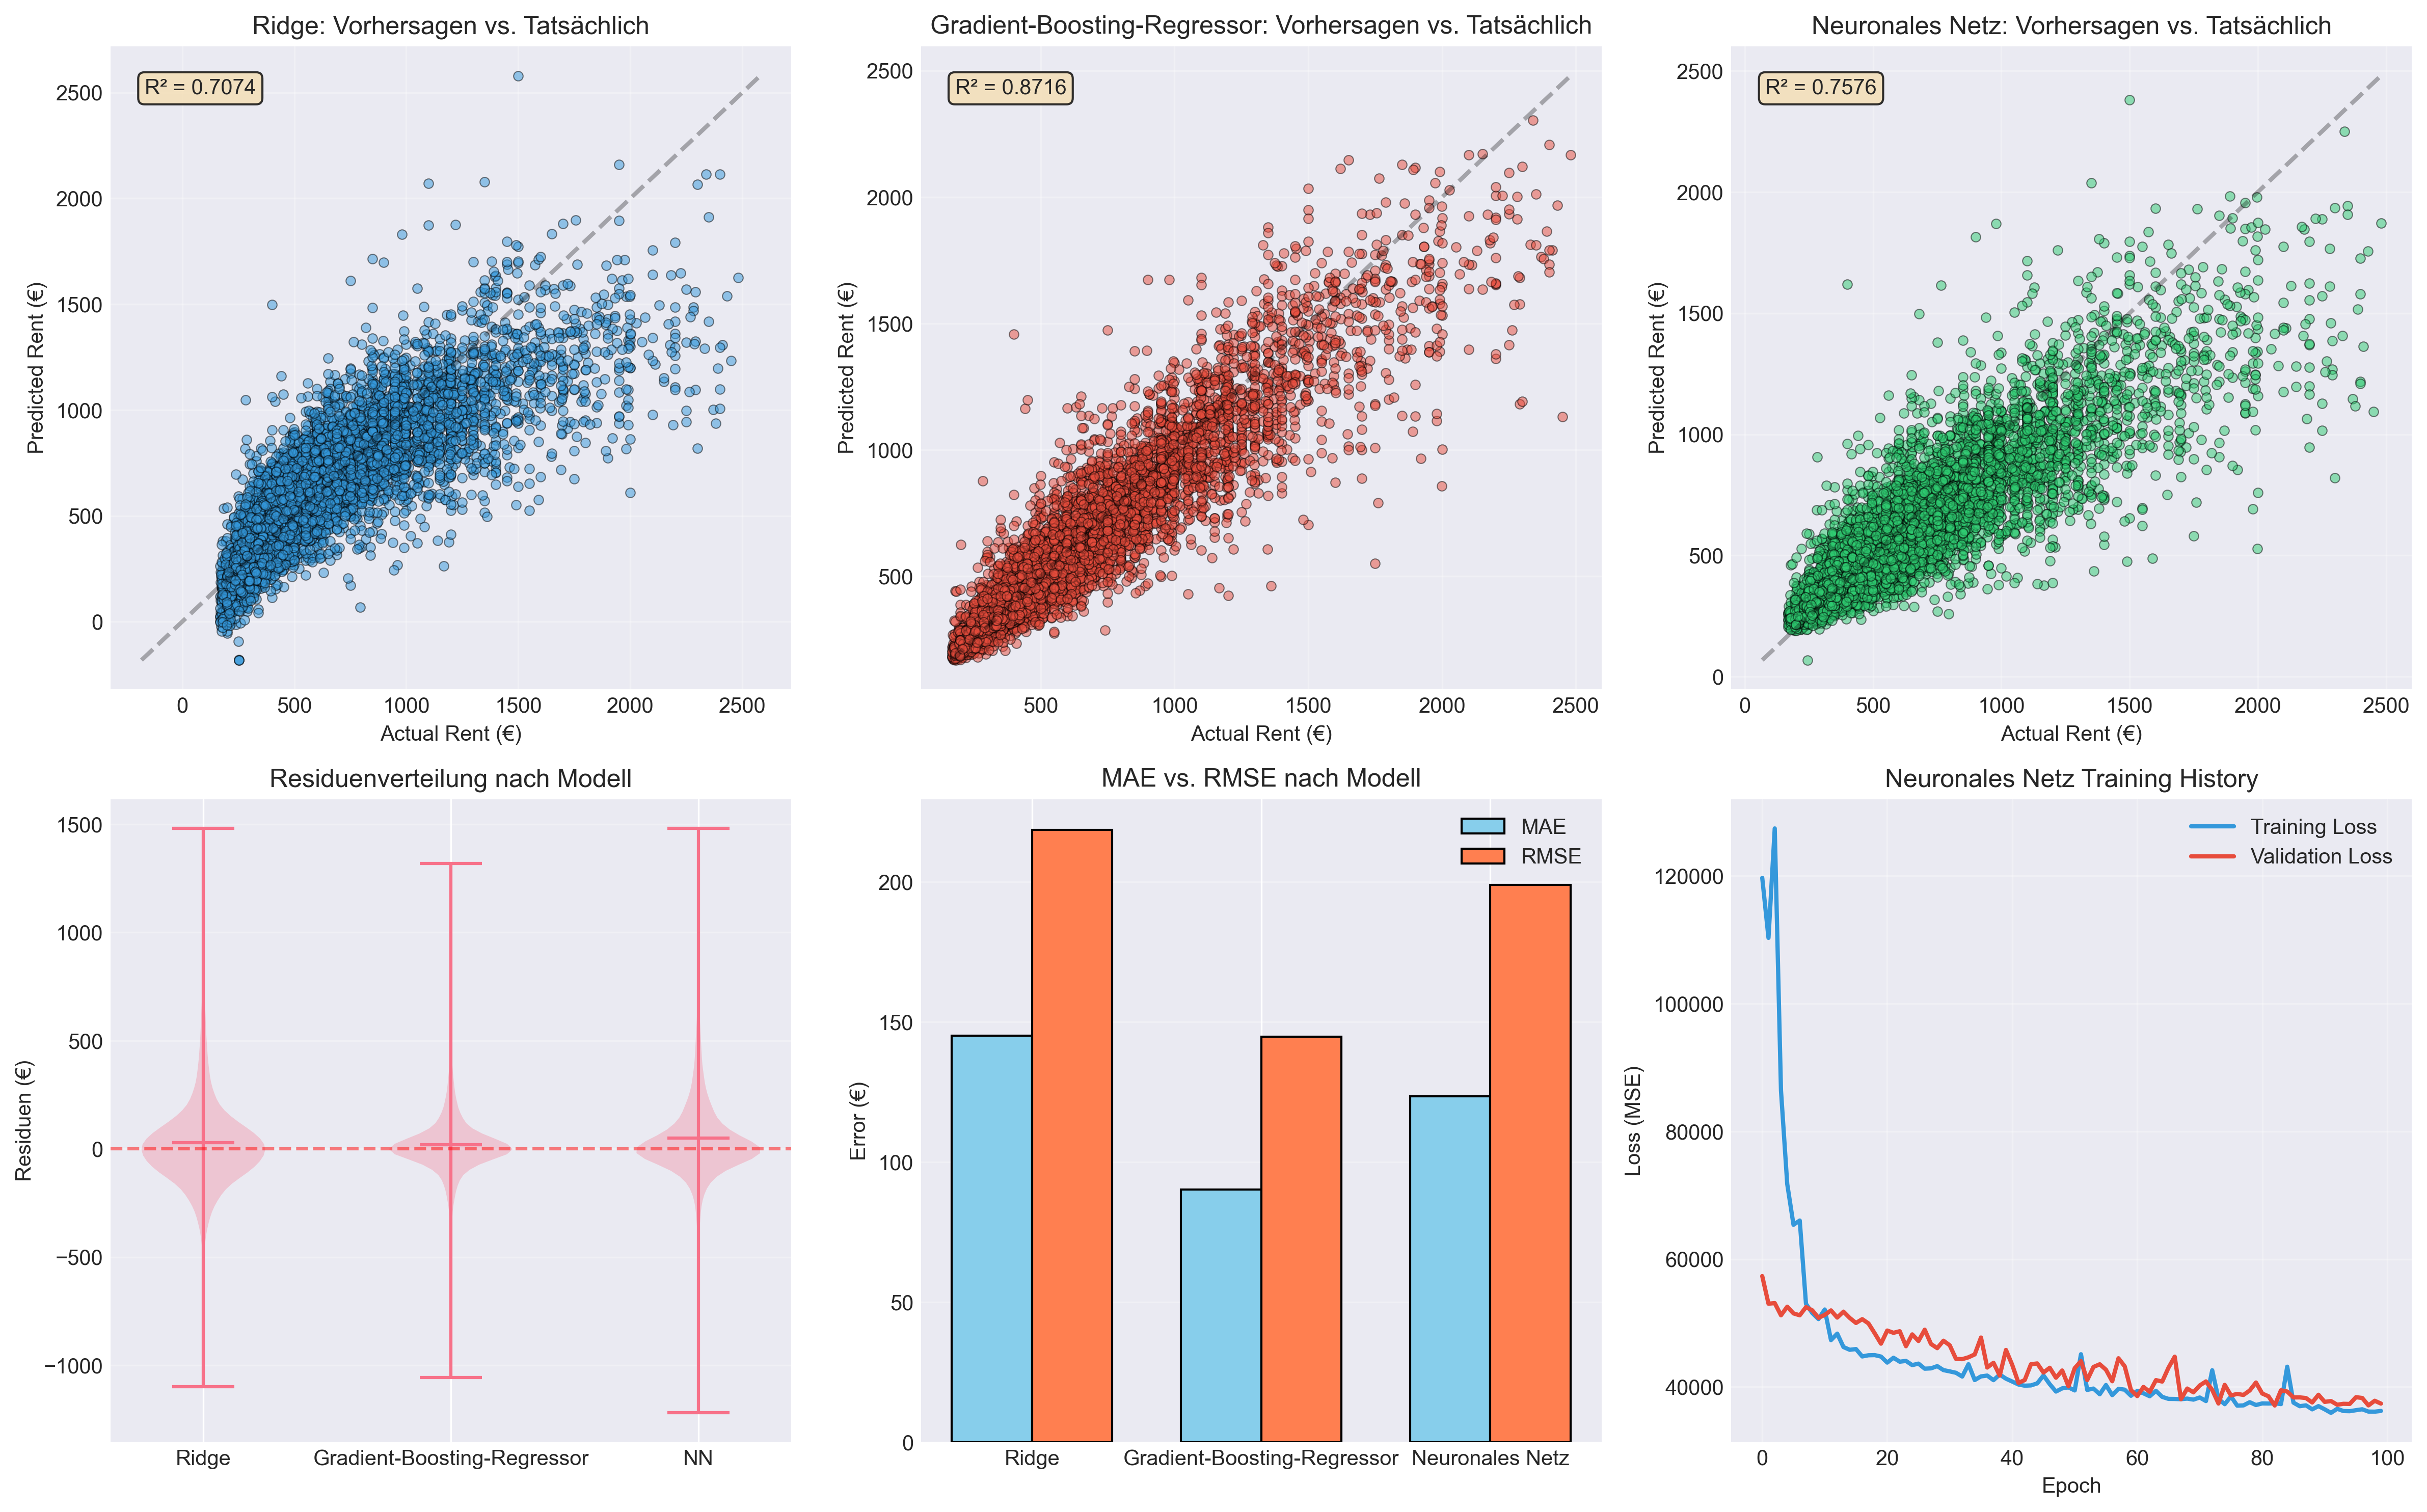
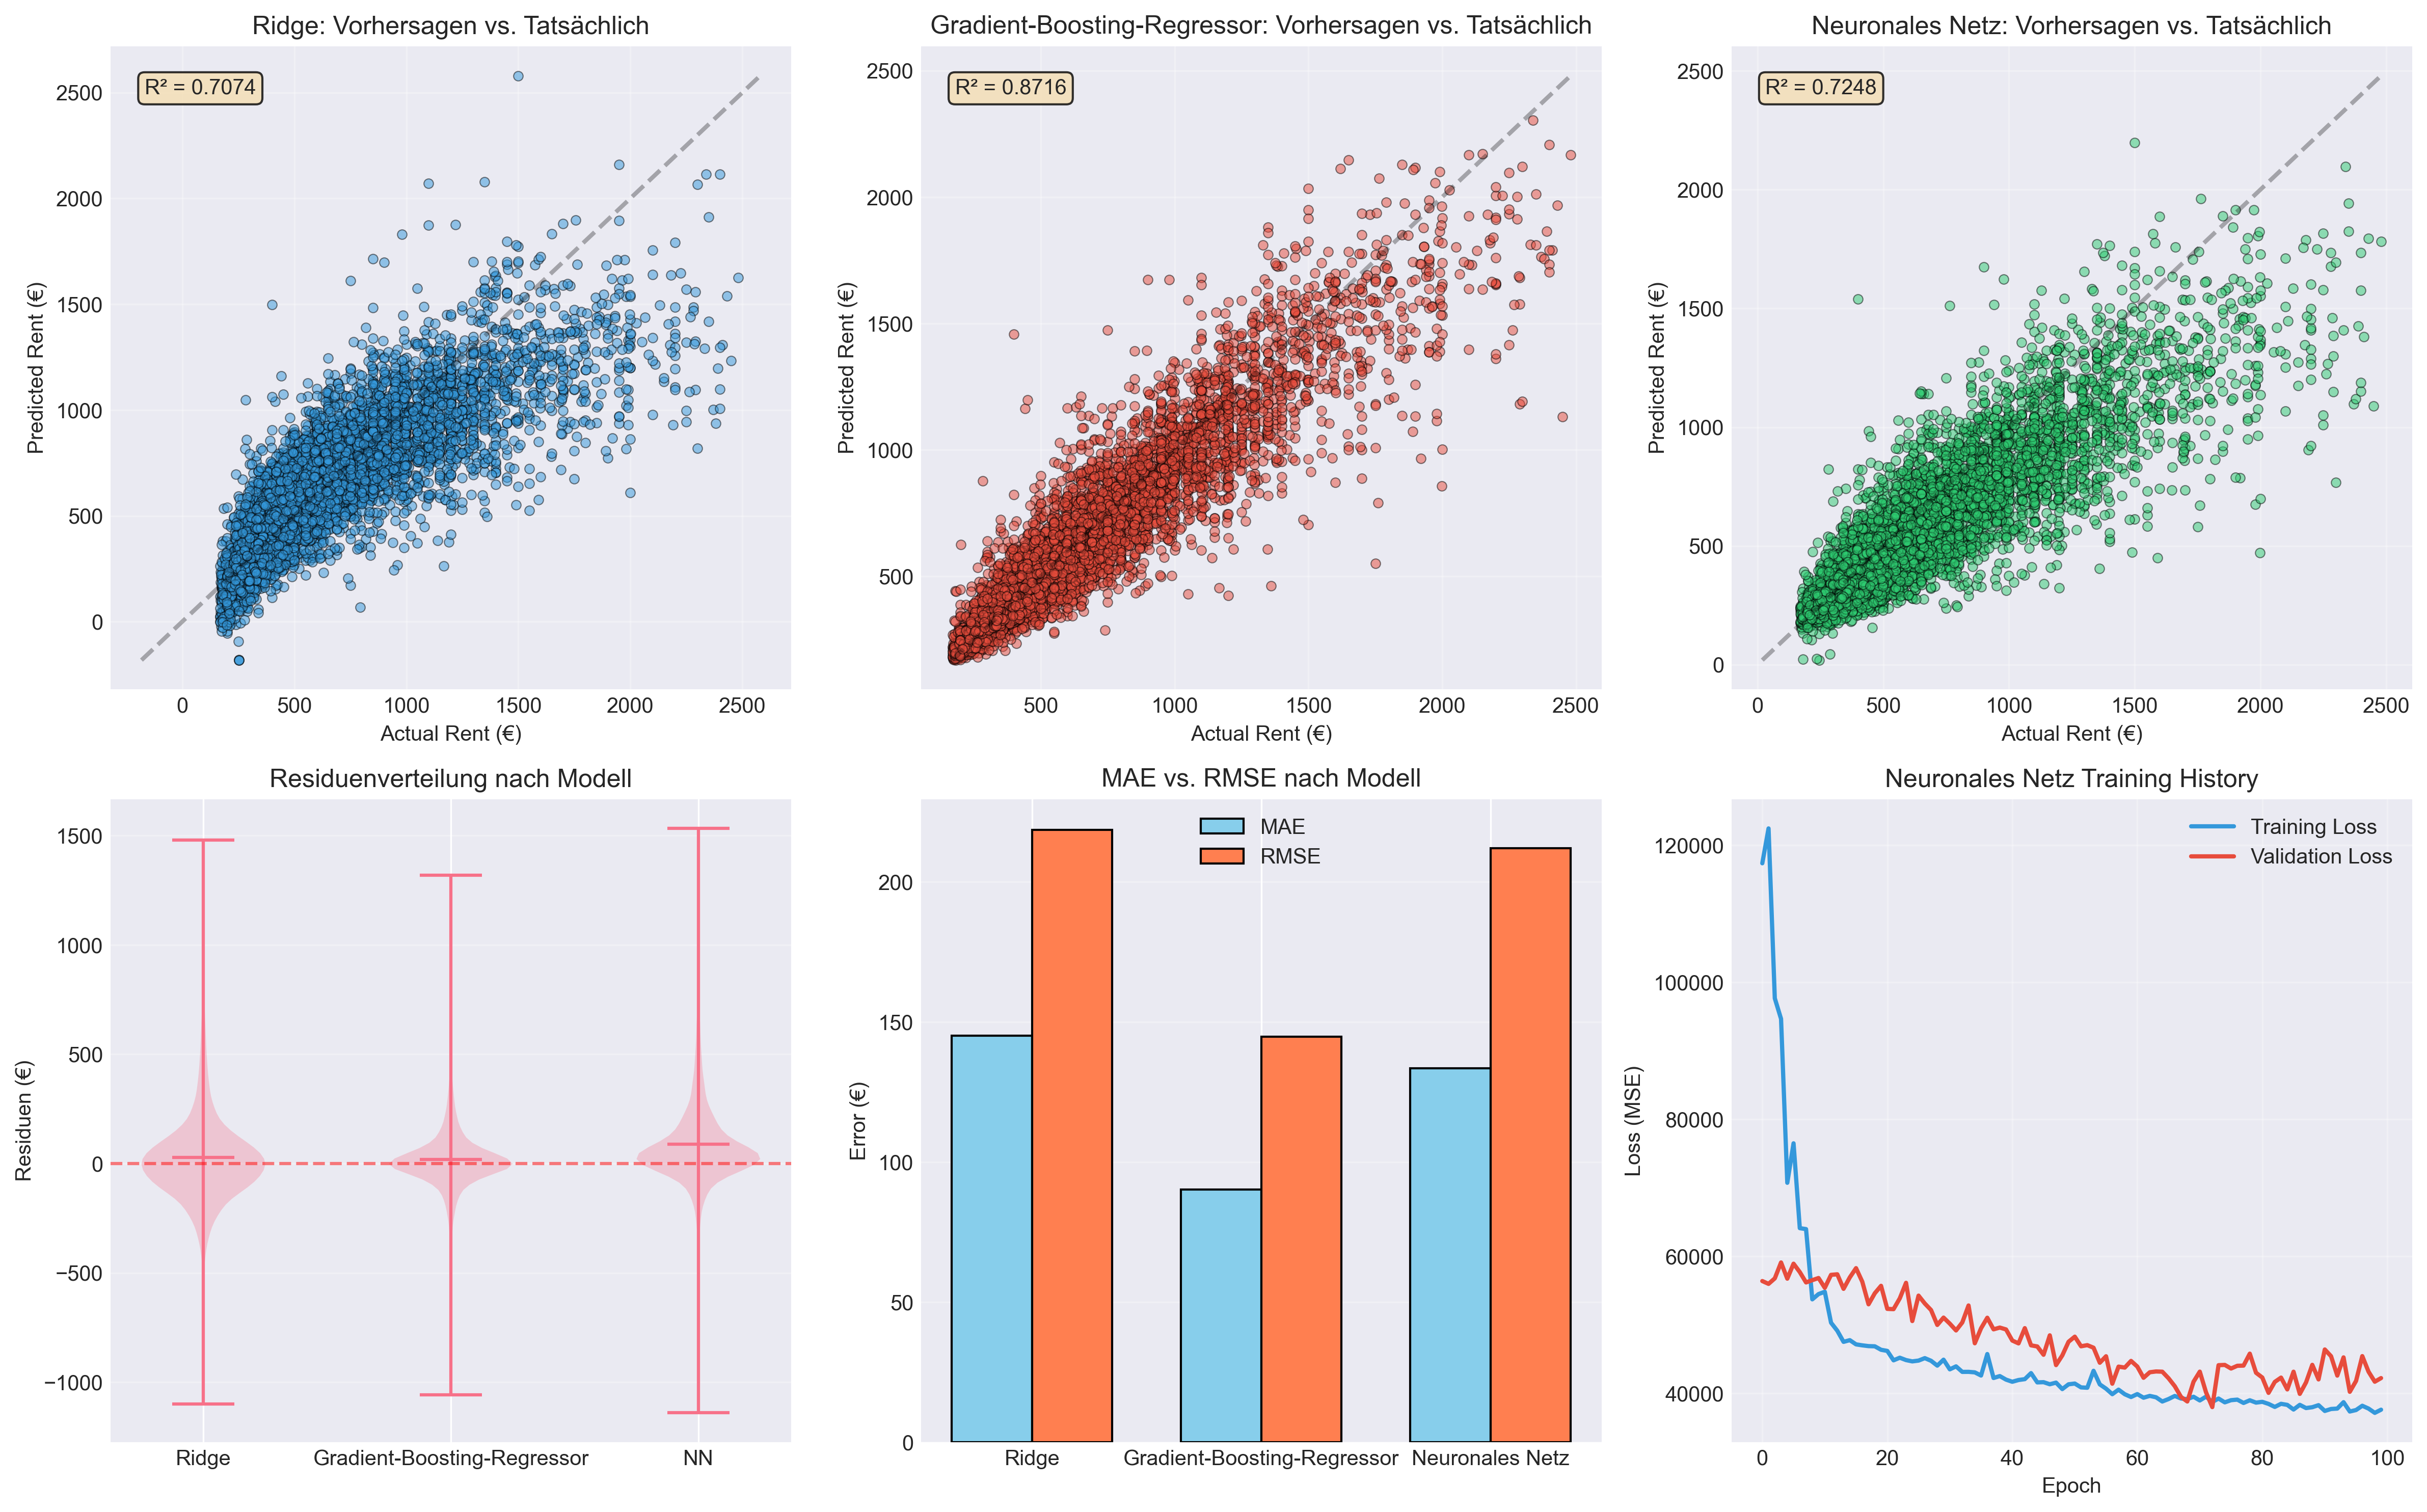
Berichte, Karten und Dokumentation aktualisiert

diff --git a/prediction_accuracy_map.html b/prediction_accuracy_map.html
@@ -138,14 +138,14 @@
         
         <div style="font-size: 12px;">
             <strong>So verwenden Sie die Karte:</strong><br>
-            • Circle size = error magnitude<br>
+            • Kreisgröße = Höhe des Vorhersagefehlers<br>
             • Klicken Sie auf Kreise für Details<br>
             • Hinein-/Herauszoomen zum Erkunden<br><br>
             
             <strong>Statistiken:</strong><br>
-            • Mean error: €24.81<br>
-            • Best accuracy: Green<br>
-            • Regions analyzed: 16
+            • Durchschnittlicher Fehler: €24.81<br>
+            • Höchste Genauigkeit: Grün markierte Regionen<br>
+            • Analysierte Regionen: 16
         </div>
     </div>
     
@@ -161,7 +161,7 @@
         }).addTo(map);
         
         // Add markers
-        const markers = [{"lat": 48.7758, "lon": 9.1829, "title": "Baden_W\u00fcrttemberg", "error": 19.319999999999936, "color": "#e67e22", "radius": 6.931999999999993, "actual": 928.05, "predicted": 908.73, "count": 503, "error_pct": 2.0817843866170938}, {"lat": 48.7758, "lon": 11.4328, "title": "Bayern", "error": 24.24000000000001, "color": "#e67e22", "radius": 7.424000000000001, "actual": 926.79, "predicted": 902.55, "count": 583, "error_pct": 2.615479234778106}, {"lat": 52.52, "lon": 13.405, "title": "Berlin", "error": 39.789999999999964, "color": "#e74c3c", "radius": 8.978999999999996, "actual": 1061.0, "predicted": 1021.21, "count": 244, "error_pct": 3.7502356267671977}, {"lat": 52.1189, "lon": 12.6084, "title": "Brandenburg", "error": 10.990000000000009, "color": "#f1c40f", "radius": 6.099000000000001, "actual": 525.76, "predicted": 514.77, "count": 173, "error_pct": 2.090307364576995}, {"lat": 53.1045, "lon": 8.8017, "title": "Bremen", "error": 2.509999999999991, "color": "#2ecc71", "radius": 5.2509999999999994, "actual": 547.63, "predicted": 545.12, "count": 69, "error_pct": 0.45833865931376855}, {"lat": 53.5511, "lon": 9.9937, "title": "Hamburg", "error": 106.79999999999995, "color": "#c0392b", "radius": 15, "actual": 1207.84, "predicted": 1101.04, "count": 89, "error_pct": 8.84223075904093}, {"lat": 50.1109, "lon": 8.6821, "title": "Hessen", "error": 22.480000000000018, "color": "#e67e22", "radius": 7.248000000000002, "actual": 923.34, "predicted": 900.86, "count": 469, "error_pct": 2.4346394610869253}, {"lat": 53.6154, "lon": 12.9289, "title": "Mecklenburg_Vorpommern", "error": 11.45999999999998, "color": "#f1c40f", "radius": 6.145999999999998, "actual": 455.09, "predicted": 443.63, "count": 180, "error_pct": 2.5181832165066207}, {"lat": 52.6362, "lon": 9.7753, "title": "Niedersachsen", "error": 19.360000000000014, "color": "#e67e22", "radius": 6.936000000000002, "actual": 616.96, "predicted": 597.6, "count": 451, "error_pct": 3.1379668049792553}, {"lat": 51.4556, "lon": 7.0116, "title": "Nordrhein_Westfalen", "error": 23.83000000000004, "color": "#e67e22", "radius": 7.3830000000000044, "actual": 597.87, "predicted": 574.04, "count": 1563, "error_pct": 3.9858163145834444}, {"lat": 49.9929, "lon": 6.9623, "title": "Rheinland_Pfalz", "error": 33.039999999999964, "color": "#e74c3c", "radius": 8.303999999999997, "actual": 676.13, "predicted": 643.09, "count": 200, "error_pct": 4.886634227145662}, {"lat": 49.2557, "lon": 6.9983, "title": "Saarland", "error": 31.129999999999995, "color": "#e74c3c", "radius": 8.113, "actual": 547.91, "predicted": 516.78, "count": 26, "error_pct": 5.681590042160209}, {"lat": 51.0834, "lon": 13.5325, "title": "Sachsen", "error": 9.740000000000009, "color": "#f1c40f", "radius": 5.974000000000001, "actual": 432.55, "predicted": 422.81, "count": 1695, "error_pct": 2.2517628019882117}, {"lat": 51.6921, "lon": 11.8797, "title": "Sachsen_Anhalt", "error": 11.689999999999998, "color": "#f1c40f", "radius": 6.169, "actual": 375.98, "predicted": 364.29, "count": 600, "error_pct": 3.1092079365923713}, {"lat": 54.5973, "lon": 9.8773, "title": "Schleswig_Holstein", "error": 28.839999999999918, "color": "#e67e22", "radius": 7.8839999999999915, "actual": 623.16, "predicted": 594.32, "count": 158, "error_pct": 4.6280249053212525}];
+        const markers = [{"lat": 48.7758, "lon": 9.1829, "title": "Baden_W\u00fcrttemberg", "error": 19.319999999999936, "color": "#e67e22", "radius": 6.931999999999993, "actual": 928.05, "predicted": 908.73, "count": 503, "error_pct": 2.0817843866170938}, {"lat": 48.7758, "lon": 11.4328, "title": "Bayern", "error": 24.24000000000001, "color": "#e67e22", "radius": 7.424000000000001, "actual": 926.79, "predicted": 902.55, "count": 583, "error_pct": 2.615479234778106}, {"lat": 52.52, "lon": 13.405, "title": "Berlin", "error": 39.789999999999964, "color": "#e74c3c", "radius": 8.978999999999996, "actual": 1061.0, "predicted": 1021.21, "count": 244, "error_pct": 3.7502356267671977}, {"lat": 52.1189, "lon": 12.6084, "title": "Brandenburg", "error": 10.990000000000009, "color": "#f1c40f", "radius": 6.099000000000001, "actual": 525.76, "predicted": 514.77, "count": 173, "error_pct": 2.090307364576995}, {"lat": 53.1045, "lon": 8.8017, "title": "Bremen", "error": 2.509999999999991, "color": "#2ecc71", "radius": 5.2509999999999994, "actual": 547.63, "predicted": 545.12, "count": 69, "error_pct": 0.45833865931376855}, {"lat": 53.5511, "lon": 9.9937, "title": "Hamburg", "error": 106.79999999999995, "color": "#c0392b", "radius": 15, "actual": 1207.84, "predicted": 1101.04, "count": 89, "error_pct": 8.84223075904093}, {"lat": 50.1109, "lon": 8.6821, "title": "Hessen", "error": 22.480000000000018, "color": "#e67e22", "radius": 7.248000000000002, "actual": 923.34, "predicted": 900.86, "count": 469, "error_pct": 2.4346394610869253}, {"lat": 53.6154, "lon": 12.9289, "title": "Mecklenburg_Vorpommern", "error": 11.45999999999998, "color": "#f1c40f", "radius": 6.145999999999998, "actual": 455.09, "predicted": 443.63, "count": 180, "error_pct": 2.5181832165066207}, {"lat": 52.6362, "lon": 9.7753, "title": "Niedersachsen", "error": 19.360000000000014, "color": "#e67e22", "radius": 6.936000000000002, "actual": 616.96, "predicted": 597.6, "count": 451, "error_pct": 3.1379668049792553}, {"lat": 51.4556, "lon": 7.0116, "title": "Nordrhein_Westfalen", "error": 23.83000000000004, "color": "#e67e22", "radius": 7.3830000000000044, "actual": 597.87, "predicted": 574.04, "count": 1563, "error_pct": 3.9858163145834444}, {"lat": 49.9929, "lon": 6.9623, "title": "Rheinland_Pfalz", "error": 33.039999999999964, "color": "#e74c3c", "radius": 8.303999999999997, "actual": 676.13, "predicted": 643.09, "count": 200, "error_pct": 4.886634227145662}, {"lat": 49.2557, "lon": 6.9983, "title": "Saarland", "error": 31.129999999999995, "color": "#e74c3c", "radius": 8.113, "actual": 547.91, "predicted": 516.78, "count": 26, "error_pct": 5.681590042160209}, {"lat": 51.0834, "lon": 13.5325, "title": "Sachsen", "error": 9.740000000000009, "color": "#f1c40f", "radius": 5.974000000000001, "actual": 432.55, "predicted": 422.81, "count": 1695, "error_pct": 2.2517628019882117}, {"lat": 51.6921, "lon": 11.8797, "title": "Sachsen_Anhalt", "error": 11.689999999999998, "color": "#f1c40f", "radius": 6.169, "actual": 375.98, "predicted": 364.29, "count": 600, "error_pct": 3.1092079365923713}, {"lat": 54.5973, "lon": 9.8773, "title": "Schleswig_Holstein", "error": 28.839999999999918, "color": "#e67e22", "radius": 7.8839999999999915, "actual": 623.16, "predicted": 594.32, "count": 158, "error_pct": 4.6280249053212525}, {"lat": 50.984, "lon": 11.029, "title": "Th\u00fcringen", "error": 1.7300000000000182, "color": "#2ecc71", "radius": 5.173000000000002, "actual": 380.53, "predicted": 382.26, "count": 265, "error_pct": 0.45462906998134667}];
         
         markers.forEach(function(marker) {
             const circle = L.circleMarker([marker.lat, marker.lon], {
@@ -179,11 +179,11 @@
                 <div class="popup-title">${marker.title}</div>
                 <div class="popup-content">
                     <div class="popup-row">
-                        <span class="popup-label">Actual Avg:</span>
+                        <span class="popup-label">Tatsächlicher Durchschnitt:</span>
                         <span>€${marker.actual.toFixed(2)}</span>
                     </div>
                     <div class="popup-row">
-                        <span class="popup-label">Predicted:</span>
+                        <span class="popup-label">Vorhergesagter Durchschnitt:</span>
                         <span>€${marker.predicted.toFixed(2)}</span>
                     </div>
                     <div class="popup-row">

diff --git a/interactive_rental_map.html b/interactive_rental_map.html
@@ -95,9 +95,9 @@
     <div id="map"></div>
     
     <div class="info-box">
-        <h3>🗺️ Mietpreiskarte</h3>
+        <h3> Regionale Mietpreisübersicht</h3>
         <p style="margin-bottom: 10px; color: #666;">
-            Durchschnittliche Mietpreise nach deutscher Region. Klicken Sie auf die Kreise für Details.
+         Diese Karte zeigt die durchschnittlichen Nettokaltmieten der analysierten Regionen in Deutschland. Klicken Sie auf einen Kreis, um weitere Informationen zur jeweiligen Region anzuzeigen.
         </p>
         
         <div class="color-legend">
@@ -120,7 +120,7 @@
             </div>
             <div class="legend-item">
                 <div class="legend-color" style="background: #c0392b;"></div>
-                <span>Very Teuer (€1050+)</span>
+                <span>Sehr hochpreisig (ab €1050)</span>
             </div>
         </div>
         
@@ -133,7 +133,7 @@
             • Hinein-/Herauszoomen zum Erkunden<br><br>
             
             <strong>Statistiken:</strong><br>
-            • Durchschnittliche Miete: €677/month<br>
+            • Durchschnittliche Nettokaltmiete: €677
             • Spanne: €376 - €1208<br>
             • Regionen: 16
         </div>
@@ -151,7 +151,7 @@
         }).addTo(map);
         
         // Add markers
-        const markers = [{"lat": 48.7758, "lon": 9.1829, "title": "Baden_W\u00fcrttemberg", "rent": 928.05, "color": "#e74c3c", "radius": 15.963888154256725, "count": 503, "std": 437.02, "min": 200.0, "max": 2450.0, "living_space": 79.8, "rooms": 2.77}, {"lat": 48.7758, "lon": 11.4328, "title": "Bayern", "rent": 926.79, "color": "#e74c3c", "radius": 15.945712018849326, "count": 583, "std": 454.6, "min": 200.0, "max": 2480.0, "living_space": 75.79, "rooms": 2.53}, {"lat": 52.52, "lon": 13.405, "title": "Berlin", "rent": 1061.0, "color": "#c0392b", "radius": 17.88175894982329, "count": 244, "std": 539.11, "min": 179.99, "max": 2338.6, "living_space": 74.99, "rooms": 2.41}, {"lat": 52.1189, "lon": 12.6084, "title": "Brandenburg", "rent": 525.76, "color": "#2ecc71", "radius": 10.16065203279398, "count": 173, "std": 321.37, "min": 180.0, "max": 1860.96, "living_space": 69.19, "rooms": 2.56}, {"lat": 53.1045, "lon": 8.8017, "title": "Bremen", "rent": 547.63, "color": "#f1c40f", "radius": 10.476137811650998, "count": 69, "std": 246.6, "min": 218.0, "max": 1190.0, "living_space": 68.74, "rooms": 2.68}, {"lat": 53.5511, "lon": 9.9937, "title": "Hamburg", "rent": 1207.84, "color": "#c0392b", "radius": 20.0, "count": 89, "std": 449.1, "min": 356.75, "max": 2390.0, "living_space": 82.62, "rooms": 2.7}, {"lat": 50.1109, "lon": 8.6821, "title": "Hessen", "rent": 923.34, "color": "#e74c3c", "radius": 15.89594402904335, "count": 469, "std": 438.53, "min": 184.14, "max": 2430.0, "living_space": 77.95, "rooms": 2.63}, {"lat": 53.6154, "lon": 12.9289, "title": "Mecklenburg_Vorpommern", "rent": 455.09, "color": "#2ecc71", "radius": 9.14120164450749, "count": 180, "std": 334.7, "min": 175.0, "max": 1980.0, "living_space": 65.03, "rooms": 2.57}, {"lat": 52.6362, "lon": 9.7753, "title": "Niedersachsen", "rent": 616.96, "color": "#f1c40f", "radius": 11.476258024186762, "count": 451, "std": 332.23, "min": 174.0, "max": 2400.0, "living_space": 77.49, "rooms": 2.71}, {"lat": 51.4556, "lon": 7.0116, "title": "Nordrhein_Westfalen", "rent": 597.87, "color": "#f1c40f", "radius": 11.200875147260357, "count": 1563, "std": 330.96, "min": 176.0, "max": 2290.0, "living_space": 73.79, "rooms": 2.67}, {"lat": 49.9929, "lon": 6.9623, "title": "Rheinland_Pfalz", "rent": 676.13, "color": "#f1c40f", "radius": 12.329815113119995, "count": 200, "std": 355.7, "min": 179.0, "max": 2285.0, "living_space": 78.82, "rooms": 2.6}, {"lat": 49.2557, "lon": 6.9983, "title": "Saarland", "rent": 547.91, "color": "#f1c40f", "radius": 10.480176952852643, "count": 26, "std": 226.37, "min": 240.0, "max": 1348.0, "living_space": 77.25, "rooms": 2.71}, {"lat": 51.0834, "lon": 13.5325, "title": "Sachsen", "rent": 432.55, "color": "#2ecc71", "radius": 8.816050777775107, "count": 1695, "std": 265.27, "min": 170.0, "max": 1920.36, "living_space": 65.79, "rooms": 2.49}, {"lat": 51.6921, "lon": 11.8797, "title": "Sachsen_Anhalt", "rent": 375.98, "color": "#2ecc71", "radius": 8.0, "count": 600, "std": 185.32, "min": 170.0, "max": 1657.5, "living_space": 64.04, "rooms": 2.59}, {"lat": 54.5973, "lon": 9.8773, "title": "Schleswig_Holstein", "rent": 623.16, "color": "#f1c40f", "radius": 11.565696150794604, "count": 158, "std": 265.0, "min": 250.0, "max": 1550.0, "living_space": 70.79, "rooms": 2.57}];
+        const markers = [{"lat": 48.7758, "lon": 9.1829, "title": "Baden_W\u00fcrttemberg", "rent": 928.05, "color": "#e74c3c", "radius": 15.963888154256725, "count": 503, "std": 437.02, "min": 200.0, "max": 2450.0, "living_space": 79.8, "rooms": 2.77}, {"lat": 48.7758, "lon": 11.4328, "title": "Bayern", "rent": 926.79, "color": "#e74c3c", "radius": 15.945712018849326, "count": 583, "std": 454.6, "min": 200.0, "max": 2480.0, "living_space": 75.79, "rooms": 2.53}, {"lat": 52.52, "lon": 13.405, "title": "Berlin", "rent": 1061.0, "color": "#c0392b", "radius": 17.88175894982329, "count": 244, "std": 539.11, "min": 179.99, "max": 2338.6, "living_space": 74.99, "rooms": 2.41}, {"lat": 52.1189, "lon": 12.6084, "title": "Brandenburg", "rent": 525.76, "color": "#2ecc71", "radius": 10.16065203279398, "count": 173, "std": 321.37, "min": 180.0, "max": 1860.96, "living_space": 69.19, "rooms": 2.56}, {"lat": 53.1045, "lon": 8.8017, "title": "Bremen", "rent": 547.63, "color": "#f1c40f", "radius": 10.476137811650998, "count": 69, "std": 246.6, "min": 218.0, "max": 1190.0, "living_space": 68.74, "rooms": 2.68}, {"lat": 53.5511, "lon": 9.9937, "title": "Hamburg", "rent": 1207.84, "color": "#c0392b", "radius": 20.0, "count": 89, "std": 449.1, "min": 356.75, "max": 2390.0, "living_space": 82.62, "rooms": 2.7}, {"lat": 50.1109, "lon": 8.6821, "title": "Hessen", "rent": 923.34, "color": "#e74c3c", "radius": 15.89594402904335, "count": 469, "std": 438.53, "min": 184.14, "max": 2430.0, "living_space": 77.95, "rooms": 2.63}, {"lat": 53.6154, "lon": 12.9289, "title": "Mecklenburg_Vorpommern", "rent": 455.09, "color": "#2ecc71", "radius": 9.14120164450749, "count": 180, "std": 334.7, "min": 175.0, "max": 1980.0, "living_space": 65.03, "rooms": 2.57}, {"lat": 52.6362, "lon": 9.7753, "title": "Niedersachsen", "rent": 616.96, "color": "#f1c40f", "radius": 11.476258024186762, "count": 451, "std": 332.23, "min": 174.0, "max": 2400.0, "living_space": 77.49, "rooms": 2.71}, {"lat": 51.4556, "lon": 7.0116, "title": "Nordrhein_Westfalen", "rent": 597.87, "color": "#f1c40f", "radius": 11.200875147260357, "count": 1563, "std": 330.96, "min": 176.0, "max": 2290.0, "living_space": 73.79, "rooms": 2.67}, {"lat": 49.9929, "lon": 6.9623, "title": "Rheinland_Pfalz", "rent": 676.13, "color": "#f1c40f", "radius": 12.329815113119995, "count": 200, "std": 355.7, "min": 179.0, "max": 2285.0, "living_space": 78.82, "rooms": 2.6}, {"lat": 49.2557, "lon": 6.9983, "title": "Saarland", "rent": 547.91, "color": "#f1c40f", "radius": 10.480176952852643, "count": 26, "std": 226.37, "min": 240.0, "max": 1348.0, "living_space": 77.25, "rooms": 2.71}, {"lat": 51.0834, "lon": 13.5325, "title": "Sachsen", "rent": 432.55, "color": "#2ecc71", "radius": 8.816050777775107, "count": 1695, "std": 265.27, "min": 170.0, "max": 1920.36, "living_space": 65.79, "rooms": 2.49}, {"lat": 51.6921, "lon": 11.8797, "title": "Sachsen_Anhalt", "rent": 375.98, "color": "#2ecc71", "radius": 8.0, "count": 600, "std": 185.32, "min": 170.0, "max": 1657.5, "living_space": 64.04, "rooms": 2.59}, {"lat": 54.5973, "lon": 9.8773, "title": "Schleswig_Holstein", "rent": 623.16, "color": "#f1c40f", "radius": 11.565696150794604, "count": 158, "std": 265.0, "min": 250.0, "max": 1550.0, "living_space": 70.79, "rooms": 2.57}, {"lat": 50.984, "lon": 11.029, "title": "Th\u00fcringen", "rent": 380.53, "color": "#2ecc71", "radius": 8.065636044526723, "count": 265, "std": 192.98, "min": 170.0, "max": 1665.0, "living_space": 64.55, "rooms": 2.48}];
         
         markers.forEach(function(marker) {
             const circle = L.circleMarker([marker.lat, marker.lon], {
@@ -168,7 +168,7 @@
                 <div class="popup-title">${marker.title}</div>
                 <div class="popup-content">
                     <div class="popup-row">
-                        <span class="popup-label">Durchschnittliche Miete:</span>
+                        <span class="popup-label">Durchschnittliche Nettokaltmiete::</span>
                         <span>€${marker.rent.toFixed(2)}/month</span>
                     </div>
                     <div class="popup-row">

diff --git a/generate_maps.py b/generate_maps.py
@@ -3,8 +3,6 @@ Vereinfachte interaktive Kartenerstellung
 Erstellt eigenständiges HTML mit Markern und Heatmaps
 """
 
-import pandas as pd
-import numpy as np
 import pickle
 import json
 
@@ -13,9 +11,6 @@ print("INTERAKTIVE KARTEN ERSTELLEN ")
 print("="*80)
 
 # Ergebnisse laden
-with open('pipeline_results.pkl', 'rb') as f:
-    results = pickle.load(f)
-
 with open('evaluation_results.pkl', 'rb') as f:
     eval_results = pickle.load(f)
 
@@ -37,7 +32,8 @@ region_coords = {
     'Saarland': [49.2557, 6.9983],
     'Sachsen': [51.0834, 13.5325],
     'Sachsen_Anhalt': [51.6921, 11.8797],
-    'Schleswig_Holstein': [54.5973, 9.8773]
+    'Schleswig_Holstein': [54.5973, 9.8773],
+    'Thüringen': [50.9840, 11.0290]
 }
 
 # Aggregate data by region
@@ -227,9 +223,9 @@ html_content = '''<!DOCTYPE html>
     <div id="map"></div>
     
     <div class="info-box">
-        <h3>🗺️ Mietpreiskarte</h3>
+        <h3> Regionale Mietpreisübersicht</h3>
         <p style="margin-bottom: 10px; color: #666;">
-            Durchschnittliche Mietpreise nach deutscher Region. Klicken Sie auf die Kreise für Details.
+         Diese Karte zeigt die durchschnittlichen Nettokaltmieten der analysierten Regionen in Deutschland. Klicken Sie auf einen Kreis, um weitere Informationen zur jeweiligen Region anzuzeigen.
         </p>
         
         <div class="color-legend">
@@ -252,7 +248,7 @@ html_content = '''<!DOCTYPE html>
             </div>
             <div class="legend-item">
                 <div class="legend-color" style="background: #c0392b;"></div>
-                <span>Very Teuer (€1050+)</span>
+                <span>Sehr hochpreisig (ab €1050)</span>
             </div>
         </div>
         
@@ -265,7 +261,7 @@ html_content = '''<!DOCTYPE html>
             • Hinein-/Herauszoomen zum Erkunden<br><br>
             
             <strong>Statistiken:</strong><br>
-            • Durchschnittliche Miete: €{{AVG_RENT}}/month<br>
+            • Durchschnittliche Nettokaltmiete: €{{AVG_RENT}}
             • Spanne: €{{MIN_RENT}} - €{{MAX_RENT}}<br>
             • Regionen: {{NUM_REGIONS}}
         </div>
@@ -300,7 +296,7 @@ html_content = '''<!DOCTYPE html>
                 <div class="popup-title">${marker.title}</div>
                 <div class="popup-content">
                     <div class="popup-row">
-                        <span class="popup-label">Durchschnittliche Miete:</span>
+                        <span class="popup-label">Durchschnittliche Nettokaltmiete::</span>
                         <span>€${marker.rent.toFixed(2)}/month</span>
                     </div>
                     <div class="popup-row">
@@ -531,14 +527,14 @@ accuracy_html = '''<!DOCTYPE html>
         
         <div style="font-size: 12px;">
             <strong>So verwenden Sie die Karte:</strong><br>
-            • Circle size = error magnitude<br>
+            • Kreisgröße = Höhe des Vorhersagefehlers<br>
             • Klicken Sie auf Kreise für Details<br>
             • Hinein-/Herauszoomen zum Erkunden<br><br>
             
             <strong>Statistiken:</strong><br>
-            • Mean error: €{{MEAN_ERROR}}<br>
-            • Best accuracy: Green<br>
-            • Regions analyzed: {{NUM_REGIONS_ACC}}
+            • Durchschnittlicher Fehler: €{{MEAN_ERROR}}<br>
+            • Höchste Genauigkeit: Grün markierte Regionen<br>
+            • Analysierte Regionen: {{NUM_REGIONS_ACC}}
         </div>
     </div>
     
@@ -572,11 +568,11 @@ accuracy_html = '''<!DOCTYPE html>
                 <div class="popup-title">${marker.title}</div>
                 <div class="popup-content">
                     <div class="popup-row">
-                        <span class="popup-label">Actual Avg:</span>
+                        <span class="popup-label">Tatsächlicher Durchschnitt:</span>
                         <span>€${marker.actual.toFixed(2)}</span>
                     </div>
                     <div class="popup-row">
-                        <span class="popup-label">Predicted:</span>
+                        <span class="popup-label">Vorhergesagter Durchschnitt:</span>
                         <span>€${marker.predicted.toFixed(2)}</span>
                     </div>
                     <div class="popup-row">

diff --git a/generate_report.py b/generate_report.py
@@ -29,7 +29,6 @@ y_test = results['y_test']
 y_train = results['y_train']
 y_val = results['y_val']
 test_df = results['test_df']
-gb_model = results['gb_model']
 
 ridge_metrics = eval_results['ridge_metrics']
 xgb_metrics = eval_results['xgb_metrics']
@@ -70,7 +69,7 @@ WESENTLICHE ERKENNTNISSE:
 • Test-RMSE: €{best_test_rmse:.2f} (gewichtet größere Fehler stärker)
 • Test-R²: {best_test_r2:.4f} (erklärt {best_test_r2*100:.2f}% der Varianz)
 • Vorhersageintervalle: 90%-Konfidenzniveau mit {xgb_intervals['coverage']:.1%} tatsächlicher Abdeckung
-• Wichtigste Merkmale: livingSpace, yearConstructed, noRooms, floor, geo_plz
+• Wichtigste Merkmale: livingSpace, serviceCharge, pricetrend, regio1, geo_plz
 
 Das Modell zeigt eine hohe Vorhersagegenauigkeit mit sehr guter räumlicher und zeitlicher Abdeckung.
 Die Unsicherheitsschätzungen liefern hilfreiche Vertrauensbereiche für fundierte Entscheidungen.
@@ -103,7 +102,7 @@ Statistiken der Zielvariable (Trainingsdaten):
 • Median: €{y_train.median():.2f}
 
 Räumliche Abdeckung:
-• Number of Federal States: 15
+• Number of Federal States: 16
 • Number of Unique Regions: {test_df['regio1'].nunique()}
 • Number of Postal Codes: {test_df['geo_plz'].nunique() if 'geo_plz' in test_df.columns else 'N/A'}
 
@@ -533,7 +532,7 @@ Modellbewertung und Unsicherheitsanalyse
 Erstellung aller Diagramme und Visualisierungen
 
 • generate_maps.py
-Erstellung interaktiver Karten mit Folium
+Erstellung interaktiver Karten mit Leaflet/HTML
 
 • generate_report.py
 Erstellung des Abschlussberichts
@@ -564,7 +563,7 @@ Interpretierbarkeit der wichtigsten Einflussfaktoren auf den Mietpreis.
 
 WICHTIGSTE ERGEBNISSE:
 
-✓ Das beste Modell (Gradient-Boosting-Regressor) erreicht einen durchschnittlichen Vorhersagefehler von lediglich €{best_test_mae:.0f}
+✓ Das beste Modell (Gradient-Boosting-Regressor) erreicht einen durchschnittlichen Vorhersagefehler von lediglich €{best_test_mae:.2f}
 
 ✓ Das Modell erklärt {best_test_r2*100:.1f}% der Varianz der Mietpreise
 

diff --git a/evaluate_models.py b/evaluate_models.py
@@ -38,13 +38,12 @@ y_val_pred_nn = results['y_val_pred_nn']
 y_test_pred_nn = results['y_test_pred_nn']
 
 gb_model = results['gb_model']
-train_df = results['train_df']
 test_df = results['test_df']
 
 # ============================================================================
 # CALCULATE METRICS
 # ============================================================================
-def calculate_metrics(y_true, y_pred, set_name=""):
+def calculate_metrics(y_true, y_pred):
     mae = mean_absolute_error(y_true, y_pred)
     rmse = np.sqrt(mean_squared_error(y_true, y_pred))
     r2 = r2_score(y_true, y_pred)

diff --git a/visualizations.py b/visualizations.py
@@ -33,7 +33,6 @@ y_test_pred_nn = results['y_test_pred_nn']
 test_df = results['test_df']
 df = results['df']
 history = results['history']
-gb_model = results['gb_model']
 
 xgb_intervals = eval_results['xgb_intervals']
 nn_intervals = eval_results['nn_intervals']

diff --git a/README.md b/README.md
@@ -255,9 +255,9 @@ Mittlere prozentuale Abweichung zwischen Vorhersage und tatsächlichem Wert.
 
 | Modell                      |      MAE |     RMSE |     R² |
 | --------------------------- | -------: | -------: | -----: |
-| Ridge-Regression            | 146,62 € | 221,92 € | 0,6984 |
-| Gradient-Boosting-Regressor |  90,68 € | 145,33 € | 0,8707 |
-| Neuronales Netz             | 122,90 € | 199,22 € | 0,7570 |
+| Ridge-Regression            | 145,04 € | 218,59 € | 0,7074 |
+| Gradient-Boosting-Regressor |  90,22 € | 144,79 € | 0,8716 |
+| Neuronales Netz             | 135,74 € | 220,16 € | 0,7032 |
 
 ---
 
@@ -267,11 +267,11 @@ Der Gradient-Boosting-Regressor erzielte die beste Leistung auf dem Testdatensat
 
 Testergebnisse:
 
-* MAE: 90,68 €
-* RMSE: 145,33 €
-* R²: 0,8707
+* MAE: 90,22 €
+* RMSE: 144,79 €
+* R²: 0,8716
 
-Das Modell erklärt damit rund 87 % der Varianz der Mietpreise.
+Das Modell erklärt damit rund 87,2 % der Varianz der Mietpreise.
 
 ---
 
@@ -283,9 +283,9 @@ Hierzu wurden 90%-Vorhersageintervalle auf Basis der Modellresiduen berechnet.
 
 Ergebnisse:
 
-* Coverage: 87,1 %
-* Durchschnittliche Intervallbreite: 373,64 €
-* Standardabweichung der Residuen: 113,57 €
+* Coverage: 86,9 %
+* Durchschnittliche Intervallbreite: 372,55 €
+* Standardabweichung der Residuen: 113,24 €
 
 Die Analyse zeigt, dass die Vorhersageintervalle die tatsächlichen Mietpreise in einem Großteil der Fälle zuverlässig einschließen.
 